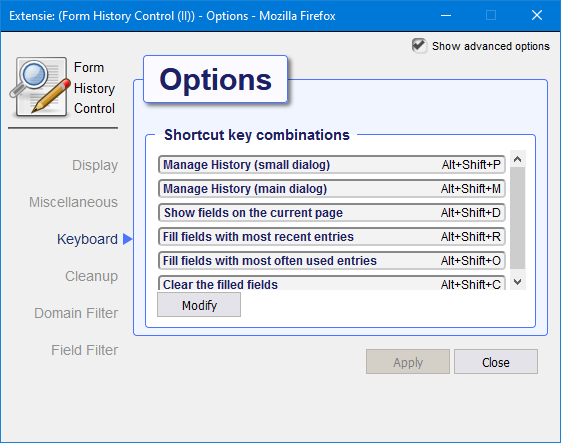
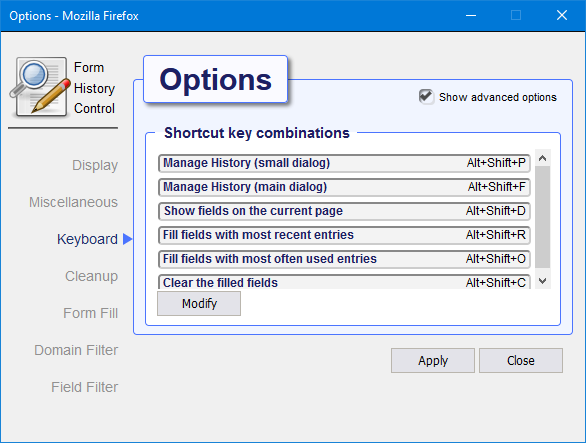
Update Preferences manual, add Form Fill Mode

diff --git a/docs/Manual/manual/index.html b/docs/Manual/manual/index.html
@@ -308,6 +308,13 @@
 </li>
         
           <li class="md-nav__item">
+  <a href="#form-fill" class="md-nav__link">
+    Form Fill
+  </a>
+  
+</li>
+        
+          <li class="md-nav__item">
   <a href="#domain-filter" class="md-nav__link">
     Domain Filter
   </a>
@@ -631,6 +638,13 @@
 </li>
         
           <li class="md-nav__item">
+  <a href="#form-fill" class="md-nav__link">
+    Form Fill
+  </a>
+  
+</li>
+        
+          <li class="md-nav__item">
   <a href="#domain-filter" class="md-nav__link">
     Domain Filter
   </a>
@@ -895,6 +909,21 @@ set number of days.</p>
 become sluggish (particularly the popdown dialog will be affected).</p>
 <p><img alt="The Preferences" src="../images/PreferencesCleanup.png" title="Preferences Cleanup" /></p>
 <p>Depending on the resources of the underlying system try to keep the number of entries below 2500.</p>
+<h3 id="form-fill">Form Fill<a class="headerlink" href="#form-fill" title="Permanent link">&para;</a></h3>
+<p>Control how multiline form fields should be filled.</p>
+<p><strong>Field Fill mode options:</strong></p>
+<ul>
+<li><strong>Automatic:</strong><br />
+insert the formhistory entry directly into the formfield if the entry consists of plain text,
+otherwise copy it to the clipboard instead</li>
+<li><strong>Use clipboard:</strong><br />
+always copy the formhistory entry to the clipboard</li>
+<li><strong>Insert clean text only:</strong><br />
+remove any formatting code from the entry and insert the remaining plain text into the formfield</li>
+<li><strong>Insert entire (raw) content:</strong><br />
+Always insert the entire content into the formfield </li>
+</ul>
+<p><img alt="The Preferences" src="../images/PreferencesFormFill.png" title="Form Fill" /></p>
 <h3 id="domain-filter">Domain Filter<a class="headerlink" href="#domain-filter" title="Permanent link">&para;</a></h3>
 <p>If <em>Allow All</em> is enabled (the default), the Form History Control add-on will remember form history for all pages.</p>
 <p>To prevent storing history for specific pages you can either <strong>blacklist</strong> the domains for sites you

diff --git a/docsource/Manual/manual.md b/docsource/Manual/manual.md
@@ -192,6 +192,26 @@ become sluggish (particularly the popdown dialog will be affected).
 
 Depending on the resources of the underlying system try to keep the number of entries below 2500.
 
+
+### Form Fill
+Control how multiline form fields should be filled.
+
+**Field Fill mode options:**
+
+* **Automatic:**  
+insert the formhistory entry directly into the formfield if the entry consists of plain text,
+otherwise copy it to the clipboard instead
+* **Use clipboard:**  
+always copy the formhistory entry to the clipboard
+* **Insert clean text only:**  
+remove any formatting code from the entry and insert the remaining plain text into the formfield
+* **Insert entire (raw) content:**  
+Always insert the entire content into the formfield 
+
+
+
+![The Preferences](./images/PreferencesFormFill.png "Form Fill")
+
 ### Domain Filter
 If _Allow All_ is enabled (the default), the Form History Control add-on will remember form history for all pages.
 
